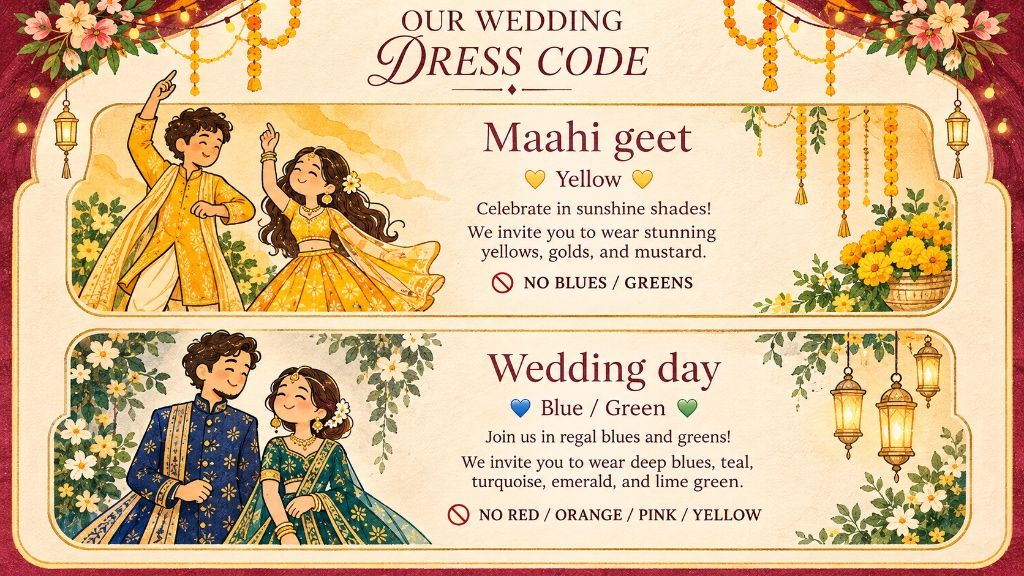
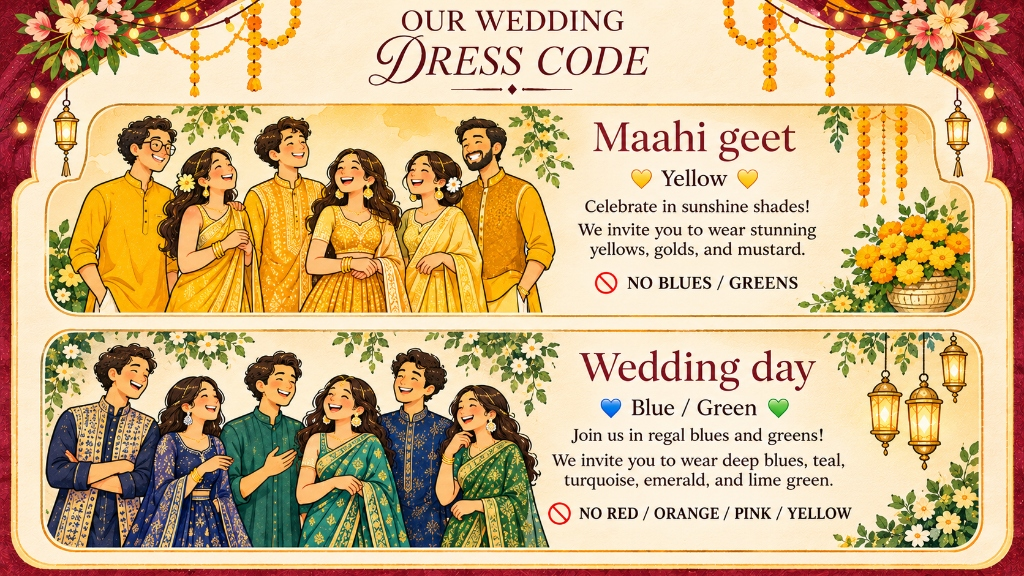
Update dress code illustration with festive group artwork and v2 cache buster

diff --git a/index.html b/index.html
@@ -730,8 +730,8 @@
 			<div class="im-dresscode-card-wrap">
 				<div class="im-dresscode-card-frame">
 					<picture>
-						<source srcset="assets/dress-code.webp" type="image/webp">
-						<img src="assets/dress-code.jpg" alt="Our Wedding Dress Code - Maahi Geet in Yellow, Wedding Day in Blue and Green" class="im-dresscode-img" loading="lazy" decoding="async">
+						<source srcset="assets/dress-code.webp?v=2" type="image/webp">
+						<img src="assets/dress-code.jpg?v=2" alt="Our Wedding Dress Code - Maahi Geet in Yellow, Wedding Day in Blue and Green" class="im-dresscode-img" loading="lazy" decoding="async">
 					</picture>
 				</div>
 			</div>
